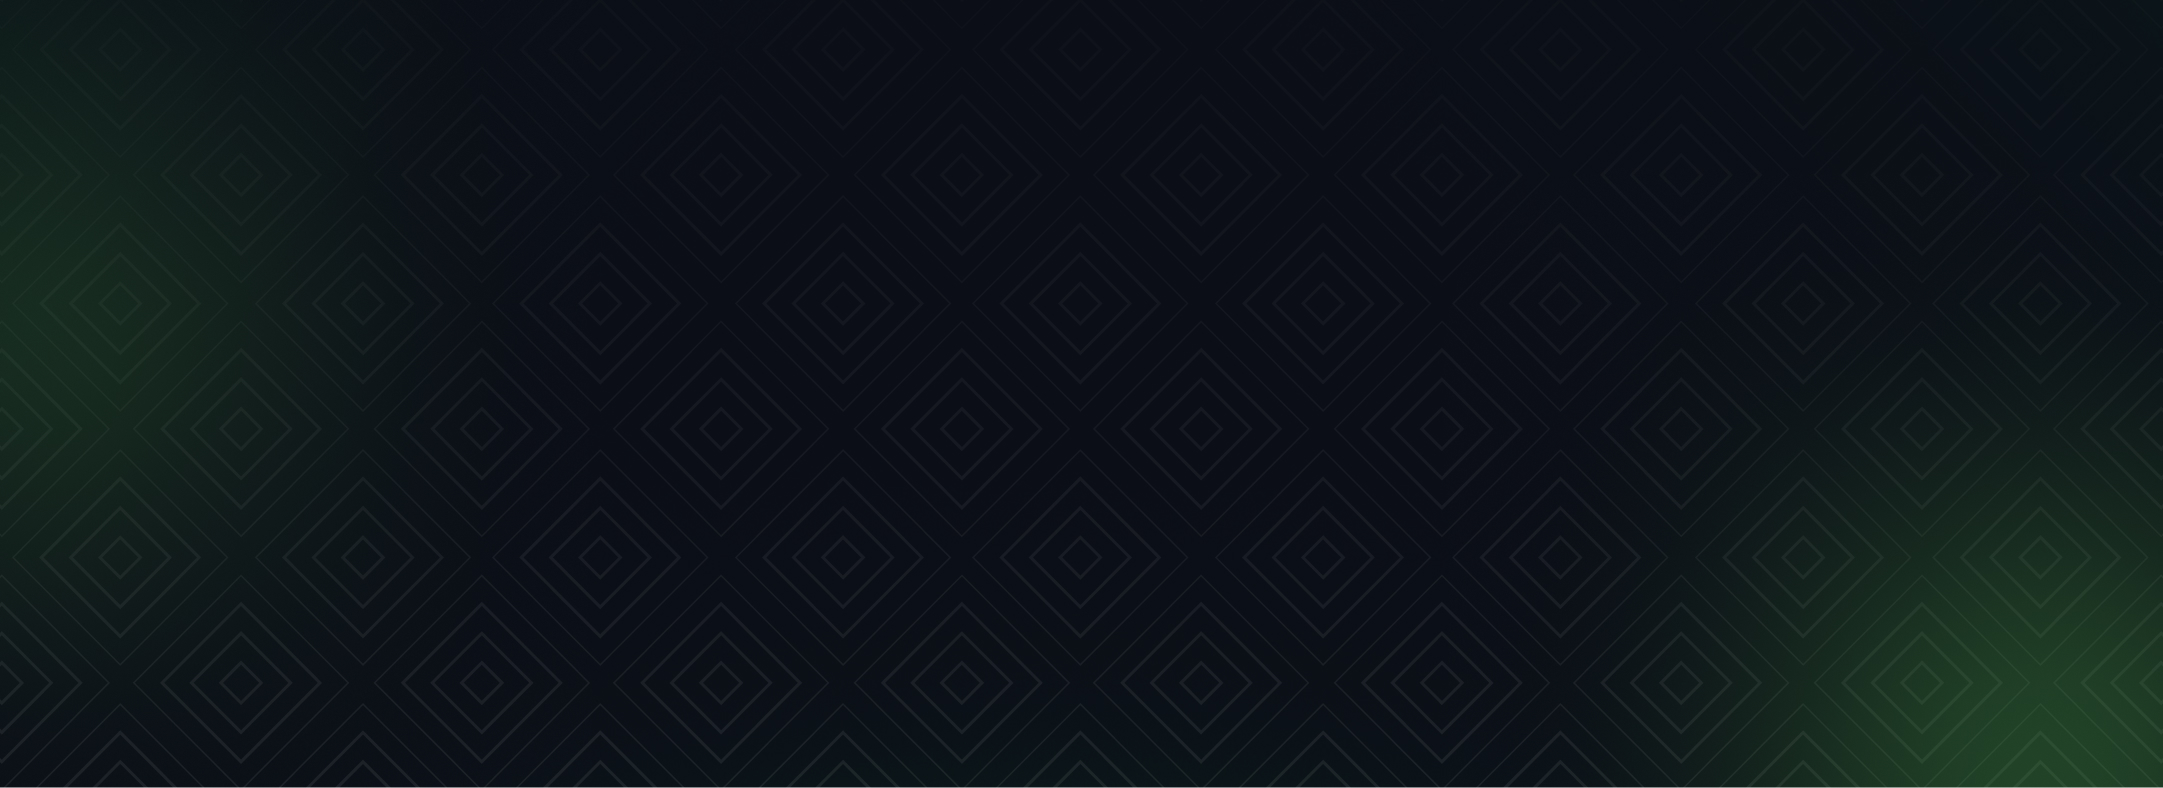
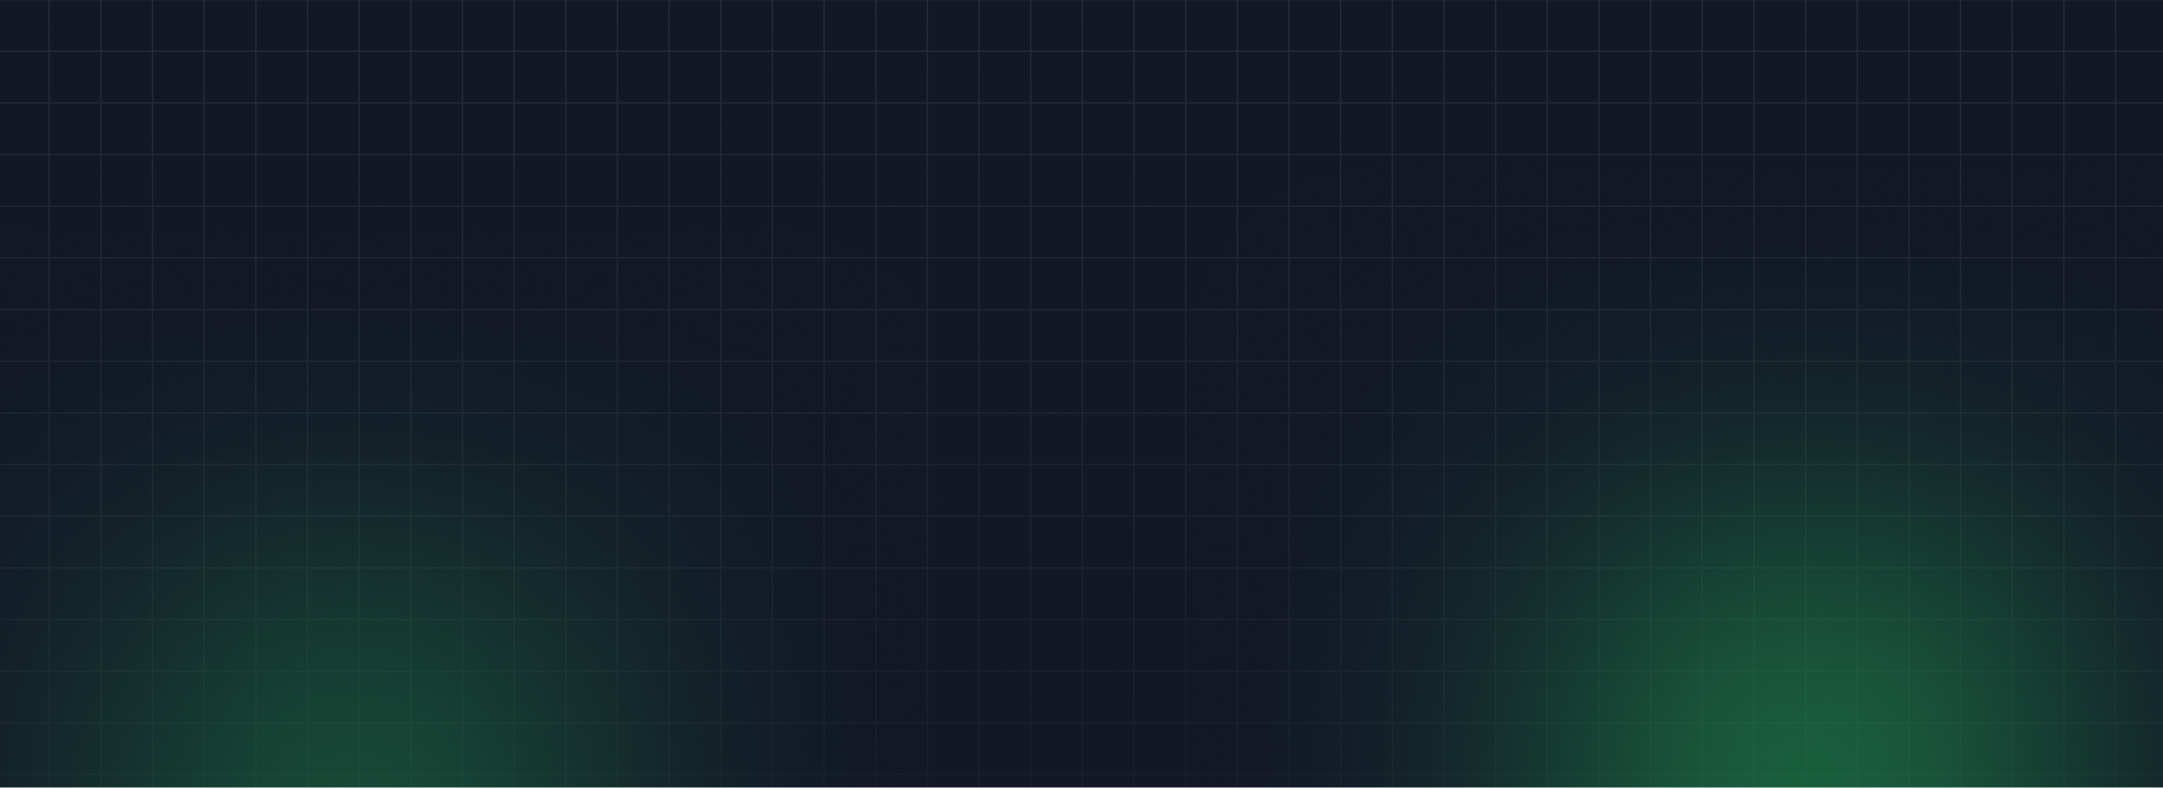
images changes

diff --git a/src/app/case-study/page.tsx b/src/app/case-study/page.tsx
@@ -7,6 +7,8 @@ import Container from "@/components/ui/container";
 import { FooterHero } from "@/components/ui/footer-hero";
 import Section from "@/components/ui/section";
 import { getCaseStudies } from "@/lib/wordpress/collections";
+import { getPublicPage } from "@/lib/wordpress/content";
+import { media, splitEmphasis, text } from "@/lib/wordpress/fields";
 import { CASE_STUDY_BASE, caseStudyPath, slugFromUri } from "@/lib/wordpress/paths";
 import { getSiteChrome } from "@/lib/wordpress/site-chrome";
 import { plainText } from "@/lib/wordpress/text";
@@ -78,8 +80,45 @@ const PREFERRED_ORDER = [
 
 const FALLBACK_MAP = new Map(FIGMA_CASE_STUDIES.map((item) => [item.slug, item]));
 
+/** WordPress page whose "Service Detail Banner" section edits this archive's hero. */
+const CASE_STUDY_ARCHIVE_PAGE_URI = "/case_studies/";
+
+const HERO_FALLBACK = {
+  eyebrow: "CASE STUDIES",
+  title: "Building Smarter",
+  highlight: "Business Operations",
+  description:
+    "We help businesses streamline finance, HR, payroll, and people operations through intelligent system integration and automation. Explore how we simplify complex workflows, connect business platforms, and build scalable operations that drive efficiency and long-term growth.",
+  backgroundImage: "/foundation/foundation-foresight-hero-bg.jpg",
+};
+
+/**
+ * Hero content from the banner section of the WordPress "Case Study" page,
+ * falling back field by field to the built-in copy when WordPress is empty or
+ * unreachable.
+ */
+async function getCaseStudyHero() {
+  const result = await getPublicPage(CASE_STUDY_ARCHIVE_PAGE_URI);
+  const banner =
+    result.status === "ok"
+      ? result.page.sections.find((section) => section.__typename === "PageBuilderPageBuilderServiceDetailBannerSectionLayout")
+      : undefined;
+  if (!banner) return HERO_FALLBACK;
+
+  const titleParts = splitEmphasis(banner.title);
+  return {
+    eyebrow: text(banner.subTitle, HERO_FALLBACK.eyebrow),
+    title: titleParts
+      ? [titleParts.before, titleParts.after].filter(Boolean).join(" ").trim()
+      : text(banner.title, HERO_FALLBACK.title),
+    highlight: titleParts ? titleParts.emphasis : text(banner.title) ? "" : HERO_FALLBACK.highlight,
+    description: text(banner.description, HERO_FALLBACK.description),
+    backgroundImage: media(banner.backgroundImage)?.url || HERO_FALLBACK.backgroundImage,
+  };
+}
+
 export default async function CaseStudiesPage() {
-  const [chrome, result] = await Promise.all([getSiteChrome(), getCaseStudies()]);
+  const [chrome, result, hero] = await Promise.all([getSiteChrome(), getCaseStudies(), getCaseStudyHero()]);
 
   let studies: CaseStudyGridItem[] = [];
 
@@ -133,7 +172,7 @@ export default async function CaseStudiesPage() {
         {/* Background Mesh Image with diamond pattern and green glows */}
         <div className="pointer-events-none absolute inset-0 z-0 overflow-hidden">
           <Image
-            src="/foundation/foundation-foresight-hero-bg.jpg"
+            src={hero.backgroundImage}
             alt=""
             fill
             priority
@@ -148,24 +187,27 @@ export default async function CaseStudiesPage() {
           {/* Eyebrow */}
           <Reveal immediate preset="slide-up" delay={60} distance={20}>
             <p className="mb-4 sm:mb-5 text-white/70 font-mono tracking-[1.5px] text-[12px] sm:text-[14px] uppercase font-medium">
-              CASE STUDIES
+              {hero.eyebrow}
             </p>
           </Reveal>
 
           {/* Title */}
           <Reveal immediate preset="slide-up" delay={180} distance={24} className="max-w-[1020px] mx-auto">
             <h1 className="text-[30px] xs:text-[38px] sm:text-[46px] md:text-[50px] lg:text-[54px] leading-[1.14] font-medium tracking-tight text-white mb-5 sm:mb-6">
-              Building Smarter{" "}
-              <span className="text-brand-green">Business Operations</span>
+              {hero.title}
+              {hero.highlight && (
+                <>
+                  {" "}
+                  <span className="text-brand-green">{hero.highlight}</span>
+                </>
+              )}
             </h1>
           </Reveal>
 
           {/* Description */}
           <Reveal immediate preset="slide-up" delay={300} distance={20} className="max-w-[760px] mx-auto">
             <p className="text-[14px] sm:text-[15px] md:text-[16px] text-white/80 font-light leading-[1.65]">
-              We help businesses streamline finance, HR, payroll, and people operations through intelligent
-              system integration and automation. Explore how we simplify complex workflows, connect business
-              platforms, and build scalable operations that drive efficiency and long-term growth.
+              {hero.description}
             </p>
           </Reveal>
         </Container>

diff --git a/src/app/case-study/[slug]/page.tsx b/src/app/case-study/[slug]/page.tsx
@@ -336,7 +336,7 @@ export default async function CaseStudyPage({ params }: PageProps<"/case-study/[
         {/* Background Mesh Image with diamond pattern and green glows */}
         <div className="pointer-events-none absolute inset-0 z-0 overflow-hidden">
           <Image
-            src="/foundation/foundation-foresight-hero-bg.jpg"
+            src="/why/why-bg-img.webp"
             alt=""
             fill
             priority
